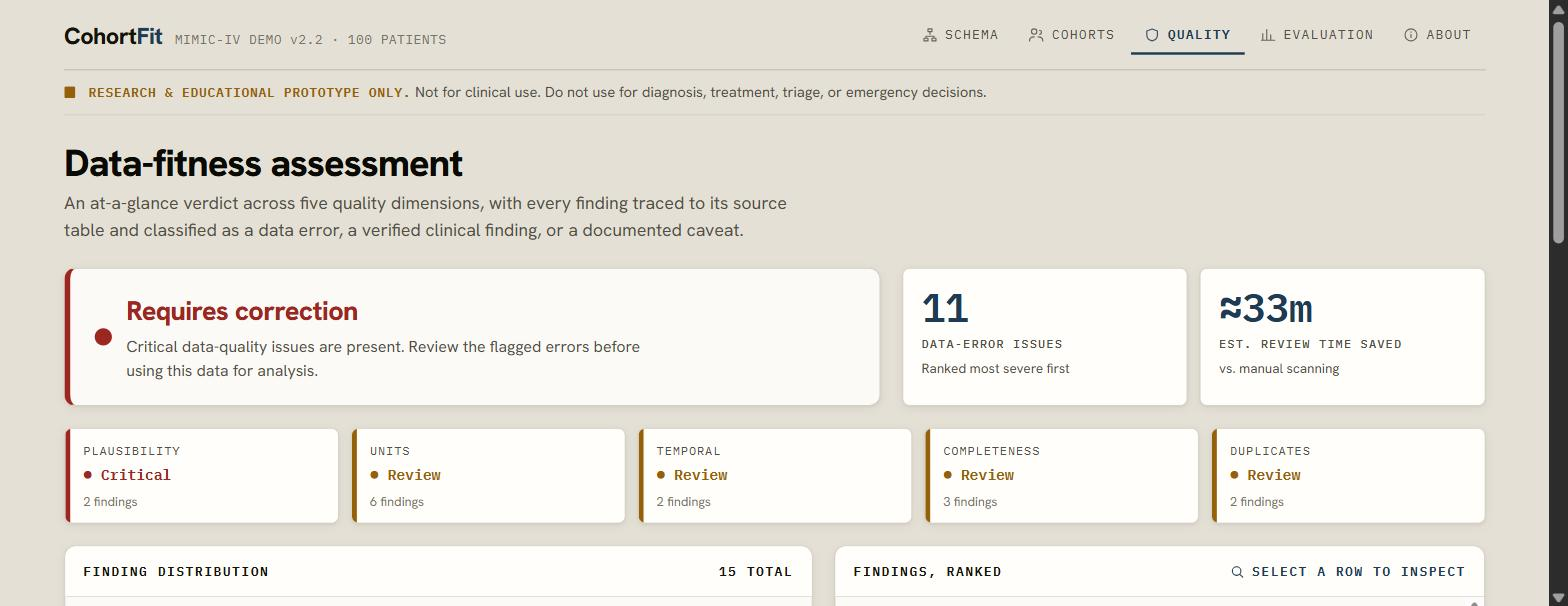
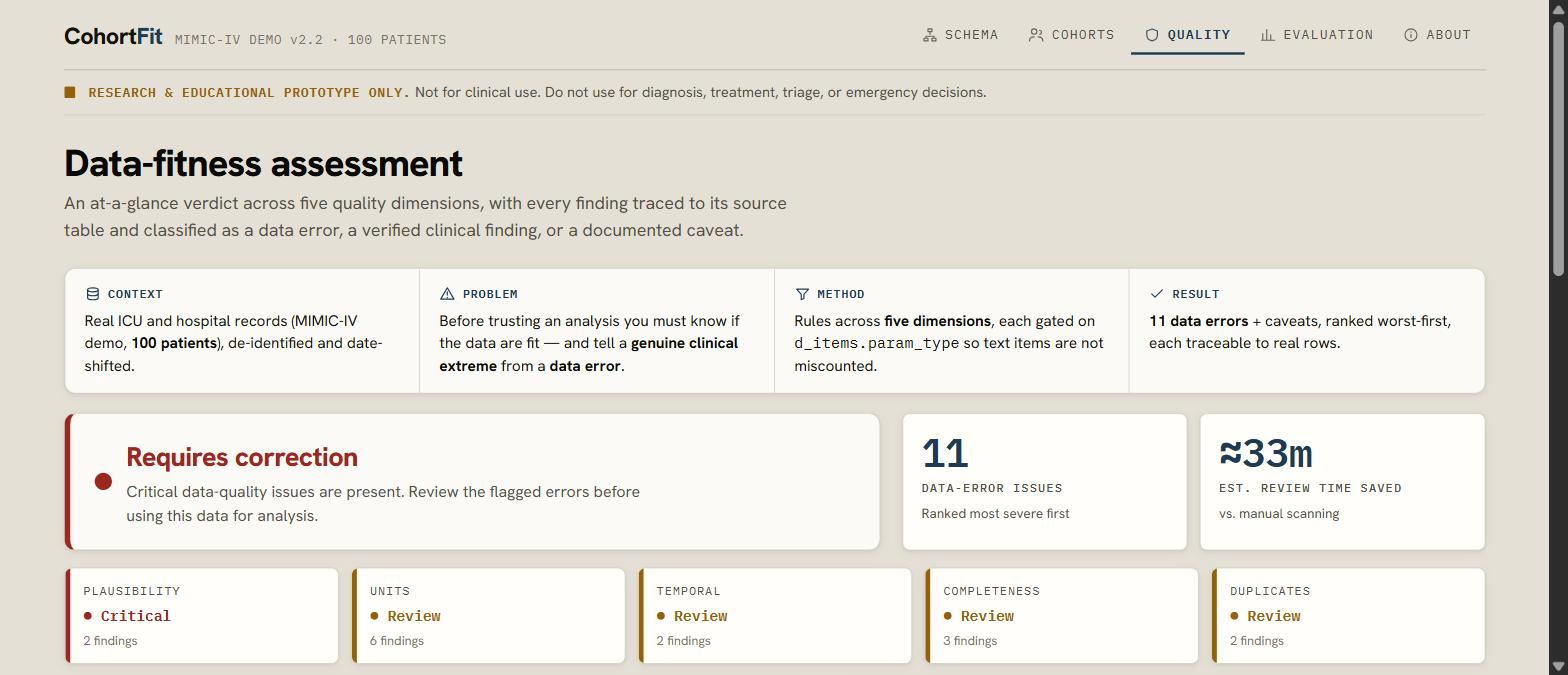
Add Context->Problem->Method->Result strips; strengthen weak controls
Narrative (item: pages should tell context/problem/steps/results): a compact,
reusable Explain strip now heads the Quality and Evaluation dashboards with a
four-part story in one horizontal band — no extra scrolling.

Control audit (same class as the results toggle): primary controls that were
underweight are now prominent —
- schema table selector: active table gets an accent bar + bold + elevation
  (was just a faint border colour) — it's the primary control of the explorer.
- data-table sort headers: hover fill + clearer carets so they read as clickable.
- table-filter input: focus glow + placeholder colour, matching the other fields.

New: components/Explain.tsx.

diff --git a/frontend/app/globals.css b/frontend/app/globals.css
@@ -80,6 +80,18 @@ main{padding:22px 0 64px}
 /* purposeful entrance for freshly-built results */
 .rise-in{animation:rise .3s cubic-bezier(.22,.61,.36,1)}
 @keyframes rise{from{opacity:0;transform:translateY(12px)}to{opacity:1;transform:none}}
+/* compact narrative strip: context -> problem -> method -> result */
+.explain{margin-bottom:16px;overflow:hidden}
+.explain-grid{display:grid}
+.explain-cell{padding:13px 16px;border-right:1px solid var(--line)}
+.explain-cell:last-child{border-right:0}
+.explain-k{display:flex;align-items:center;gap:6px;font-family:var(--mono);font-size:9.5px;letter-spacing:.08em;
+  text-transform:uppercase;font-weight:700;color:var(--accent)}
+.explain-t{margin-top:6px;font-size:12.5px;color:var(--ink);line-height:1.46}
+.explain-t b{color:var(--ink-strong)}
+@media(max-width:820px){.explain-grid{grid-template-columns:1fr 1fr!important}
+  .explain-cell{border-bottom:1px solid var(--line)}
+  .explain-cell:nth-child(2n){border-right:0}}
 .grid2{display:grid;grid-template-columns:1.15fr 1fr;gap:18px}
 .grid2>*{min-width:0}          /* prevents a wide <pre>/table from forcing the column (and page) wider */
 @media(max-width:860px){.grid2{grid-template-columns:1fr}}
@@ -175,7 +187,10 @@ main{padding:22px 0 64px}
 .tl-label{font-size:13px}
 .tl-time{font-family:var(--mono);font-size:10.5px;color:var(--muted);white-space:nowrap;font-variant-numeric:tabular-nums}
 .tl-src{font-family:var(--mono);font-size:9.5px;color:var(--faint)}
-.search{background:var(--surface-2);border:1px solid var(--line-strong);border-radius:var(--rk);padding:8px 11px;font:inherit;color:var(--ink);width:220px}
+.search{background:var(--surface-2);border:1px solid var(--line-strong);border-radius:var(--rk);padding:9px 11px;font:inherit;color:var(--ink);width:220px;
+  transition:border-color .15s ease,box-shadow .15s ease}
+.search:focus{outline:none;border-color:var(--accent);box-shadow:0 0 0 3px color-mix(in srgb,var(--accent) 16%,transparent)}
+.search::placeholder{color:var(--faint)}
 
 /* provenance ledger */
 .ledger{border:1px solid var(--line);border-radius:var(--rk);overflow:hidden;margin-top:14px}
@@ -334,10 +349,16 @@ code{font-family:var(--mono);font-size:12px;line-height:1.65;color:var(--ink);
 .muted{color:var(--muted)}
 .loading{color:var(--faint);font-family:var(--mono);font-size:12px;padding:20px 0}
 .tablelist{display:flex;flex-direction:column;gap:4px;max-height:520px;overflow:auto}
-.tablelist button{display:flex;justify-content:space-between;gap:8px;text-align:left;border:1px solid var(--line);background:var(--surface-2);
-  border-radius:var(--rk);padding:8px 10px;cursor:pointer;font:inherit;font-size:12.5px;color:var(--ink)}
-.tablelist button.active{border-color:var(--accent);background:color-mix(in srgb,var(--accent) 8%,var(--surface))}
-.tablelist button .rc{font-family:var(--mono);font-size:10.5px;color:var(--muted)}
+.tablelist button{position:relative;display:flex;justify-content:space-between;gap:8px;align-items:center;text-align:left;
+  border:1px solid var(--line);background:var(--surface-2);border-radius:var(--rk);padding:9px 11px;cursor:pointer;
+  font:inherit;font-size:12.5px;color:var(--ink);transition:background .12s ease,border-color .12s ease,box-shadow .12s ease}
+.tablelist button:hover{border-color:var(--line-strong);background:color-mix(in srgb,var(--accent) 5%,var(--surface))}
+/* the selected table is the primary control of the explorer — make it unmistakable */
+.tablelist button.active{border-color:var(--accent);background:color-mix(in srgb,var(--accent) 12%,var(--surface));
+  font-weight:700;color:var(--ink-strong);box-shadow:var(--elev-1);padding-left:14px}
+.tablelist button.active::before{content:"";position:absolute;left:0;top:4px;bottom:4px;width:3px;border-radius:0 2px 2px 0;background:var(--accent)}
+.tablelist button .rc{font-family:var(--mono);font-size:10.5px;color:var(--muted);font-variant-numeric:tabular-nums}
+.tablelist button.active .rc{color:var(--accent)}
 .tablelist button .md{font-family:var(--mono);font-size:9px;color:var(--faint);text-transform:uppercase}
 /* ===================== Data explorer — FilterBar + DataTable =====================
    Reusable filter/table surface. Filters read like a small query ledger (echoing the
@@ -393,14 +414,15 @@ code{font-family:var(--mono);font-size:12px;line-height:1.65;color:var(--ink);
   text-align:left;padding:0;box-shadow:inset 0 -1px 0 var(--line-strong);white-space:nowrap}
 .dt thead th.dt-right{text-align:right}
 .dt-sort{display:inline-flex;align-items:center;gap:6px;width:100%;border:0;background:transparent;
-  cursor:pointer;font:inherit;padding:8px 11px;color:var(--faint)}
+  cursor:pointer;font:inherit;padding:8px 11px;color:var(--muted);transition:background .12s ease}
+.dt-sort:hover{background:color-mix(in srgb,var(--accent) 8%,var(--surface))}   /* headers read as clickable */
 .dt-right .dt-sort{flex-direction:row-reverse}
 .dt-col{font-family:var(--mono);font-size:9.5px;letter-spacing:.07em;text-transform:uppercase;
-  font-weight:500;color:var(--faint)}
-.dt-sort:hover .dt-col{color:var(--muted)}
-.dt-sort.on .dt-col{color:var(--accent);font-weight:600}
-.dt-caret{font-size:8px;color:var(--line-strong);flex:0 0 auto}
-.dt-sort:hover .dt-caret{color:var(--muted)}
+  font-weight:600;color:var(--muted)}
+.dt-sort:hover .dt-col{color:var(--ink-strong)}
+.dt-sort.on .dt-col{color:var(--accent);font-weight:700}
+.dt-caret{font-size:9px;color:var(--faint);flex:0 0 auto}
+.dt-sort:hover .dt-caret{color:var(--ink)}
 .dt-sort.on .dt-caret{color:var(--accent)}
 .dt thead th>.dt-col{display:inline-block;padding:8px 11px}
 .dt-cell{padding:7px 11px;border-top:1px solid var(--line);font-family:var(--mono);

diff --git a/frontend/app/quality/page.tsx b/frontend/app/quality/page.tsx
@@ -4,6 +4,7 @@ import { useEffect, useMemo, useRef, useState } from "react";
 import { api, Scorecard, Finding, FindingRows } from "../lib/api";
 import { Verdict, StatTile, DimTile, SeverityBar, Sev } from "../components/charts";
 import { Icon } from "../components/Icon";
+import { Explain } from "../components/Explain";
 import { FixLedger } from "./FixLedger";
 
 const KIND_PILL: Record<string, string> = { data_error: "err", real_finding: "find", caveat: "caveat" };
@@ -64,6 +65,13 @@ export default function QualityPage() {
 
       {sc && derived && (
         <>
+          <Explain items={[
+            { k: "Context", icon: "database", t: <>Real ICU and hospital records (MIMIC-IV demo, <b>100 patients</b>), de-identified and date-shifted.</> },
+            { k: "Problem", icon: "alert", t: <>Before trusting an analysis you must know if the data are fit — and tell a <b>genuine clinical extreme</b> from a <b>data error</b>.</> },
+            { k: "Method", icon: "filter", t: <>Rules across <b>five dimensions</b>, each gated on <span className="mono">d_items.param_type</span> so text items are not miscounted.</> },
+            { k: "Result", icon: "check", t: <><b>{sc.summary.issues_found} data errors</b> + caveats, ranked worst-first, each traceable to real rows.</> },
+          ]} />
+
           {/* Hero: verdict + headline numbers */}
           <div className="grid2 rise-in" style={{ gridTemplateColumns: "1.4fr 1fr", alignItems: "stretch" }}>
             <Verdict severity={derived.overall} title={verdictCopy[derived.overall].t} sub={verdictCopy[derived.overall].s} />

diff --git a/frontend/app/evaluation/page.tsx b/frontend/app/evaluation/page.tsx
@@ -3,6 +3,7 @@
 import { useEffect, useState } from "react";
 import { api, EvalResult } from "../lib/api";
 import { StatTile, CompareBars, ConfusionMatrix } from "../components/charts";
+import { Explain } from "../components/Explain";
 
 export default function EvaluationPage() {
   const [ev, setEv] = useState<EvalResult | null>(null);
@@ -32,6 +33,13 @@ export default function EvaluationPage() {
 
       {ev && (
         <>
+          <Explain items={[
+            { k: "Context", icon: "chart", t: <>You cannot grade a bug-finder on the bugs it <b>happens to find</b> — there is no ground truth to score against.</> },
+            { k: "Problem", icon: "alert", t: <>So we inject a <b>known number of errors</b> into a copy of the data and measure how many the engine recovers.</> },
+            { k: "Method", icon: "play", t: <>Seeded injection across <b>{ev.seeds.length} seeds</b>; precision / recall / FPR vs a naive fixed-rule baseline. The source is never touched.</> },
+            { k: "Result", icon: "check", t: <>Recall <b>{ev.aggregate.recall.mean.toFixed(2)}</b>, precision <b>{ev.aggregate.precision.mean.toFixed(2)}</b> on this check — reported honestly as a strong case, not a clinical claim.</> },
+          ]} />
+
           {/* Headline metrics with plain-English meaning */}
           <div className="metrics">
             <StatTile value={ev.aggregate.precision.mean.toFixed(2)} label="Precision" meaning="Of the rows flagged, the share that were genuine injected errors." />

diff --git a/frontend/app/components/Explain.tsx b/frontend/app/components/Explain.tsx
@@ -1,0 +1,23 @@
+"use client";
+
+import { Icon, IconName } from "./Icon";
+
+// A compact, single-card narrative strip: Context -> Problem -> Method -> Result.
+// It gives a page its story (what this is, why it matters, how it works, what we
+// found) in one horizontal band, so judges get the framing without extra scrolling.
+export type ExplainItem = { k: string; icon: IconName; t: React.ReactNode };
+
+export function Explain({ items }: { items: ExplainItem[] }) {
+  return (
+    <section className="panel explain rise-in">
+      <div className="explain-grid" style={{ gridTemplateColumns: `repeat(${items.length}, 1fr)` }}>
+        {items.map((it, i) => (
+          <div className="explain-cell" key={i}>
+            <div className="explain-k"><Icon name={it.icon} size={13} /> {it.k}</div>
+            <div className="explain-t">{it.t}</div>
+          </div>
+        ))}
+      </div>
+    </section>
+  );
+}

diff --git a/PROGRESS.md b/PROGRESS.md
@@ -110,8 +110,14 @@ Honest reconciliation vs. the plan/prompts (nothing architectural diverged; two 
 - [x] **Production build** — root cause was the Next.js **dev server compiling each route on first visit** (multi-second). The Docker frontend now does `next build` + `output:standalone` + `next start` (multi-stage Dockerfile; source bind-mount removed). Measured page loads dropped to **20–210ms cold, ~20ms warm** (was multiple seconds). Nav uses `next/link`, so prod prefetches routes on hover/viewport. **Dev-loop note:** after editing frontend code, rebuild: `docker compose up -d --build frontend`.
 - [x] **Client-side caching** — the demo dataset is frozen, so every GET is deterministic; API responses are cached in `sessionStorage` keyed by path (instant repeat visits, one round-trip per session).
 
+**Done (compact layouts + control audit + narrative context):**
+- [x] **Cohorts layout** — tried three layouts (split / tabbed / result-first); kept **tabbed**: matched patients + Recipe + SQL share one compact panel (patients full-width) instead of three stacked panels. Funnel above still shows the transparent query.
+- [x] **Quality layout** — distribution panel no longer stretches (align-items:start); gaps trimmed.
+- [x] **Prominent segmented control** — the Patients/Recipe/SQL toggle is now a tactile track with an accent-filled active pill (was a tiny mono switch).
+- [x] **Control audit** (same class of fix, app-wide): schema **table selector** active state now has an accent bar + bold + elevation (was a faint border); **sort headers** read as clickable (hover fill, clearer carets); the table-filter **input** got a focus glow. Bolder panel subheadings.
+- [x] **Quality & Evaluation narrative** — a compact `Explain` strip (Context → Problem → Method → Result) tells each page's story in one band without adding scroll. Reusable `components/Explain.tsx`.
+
 **Next:**
-- [ ] **Quality & Evaluation context** — each page should tell the context, the problem, the steps taken, and the results (per docs), not just the numbers.
 - [ ] **Critique report** — a complete assessment of the app's attention/interactivity: what's good, what lags, what to improve, what to remove.
 - [ ] The larger exploration: make Track-2 points 2 (data-quality judging) & 3 (measurement explorer) as interactive/user-centric as point 1 — try 3 paths against pre-set criteria, pick the best, implement.
 - [ ] Human deliverables (demo video, slides, submission, CVs).
